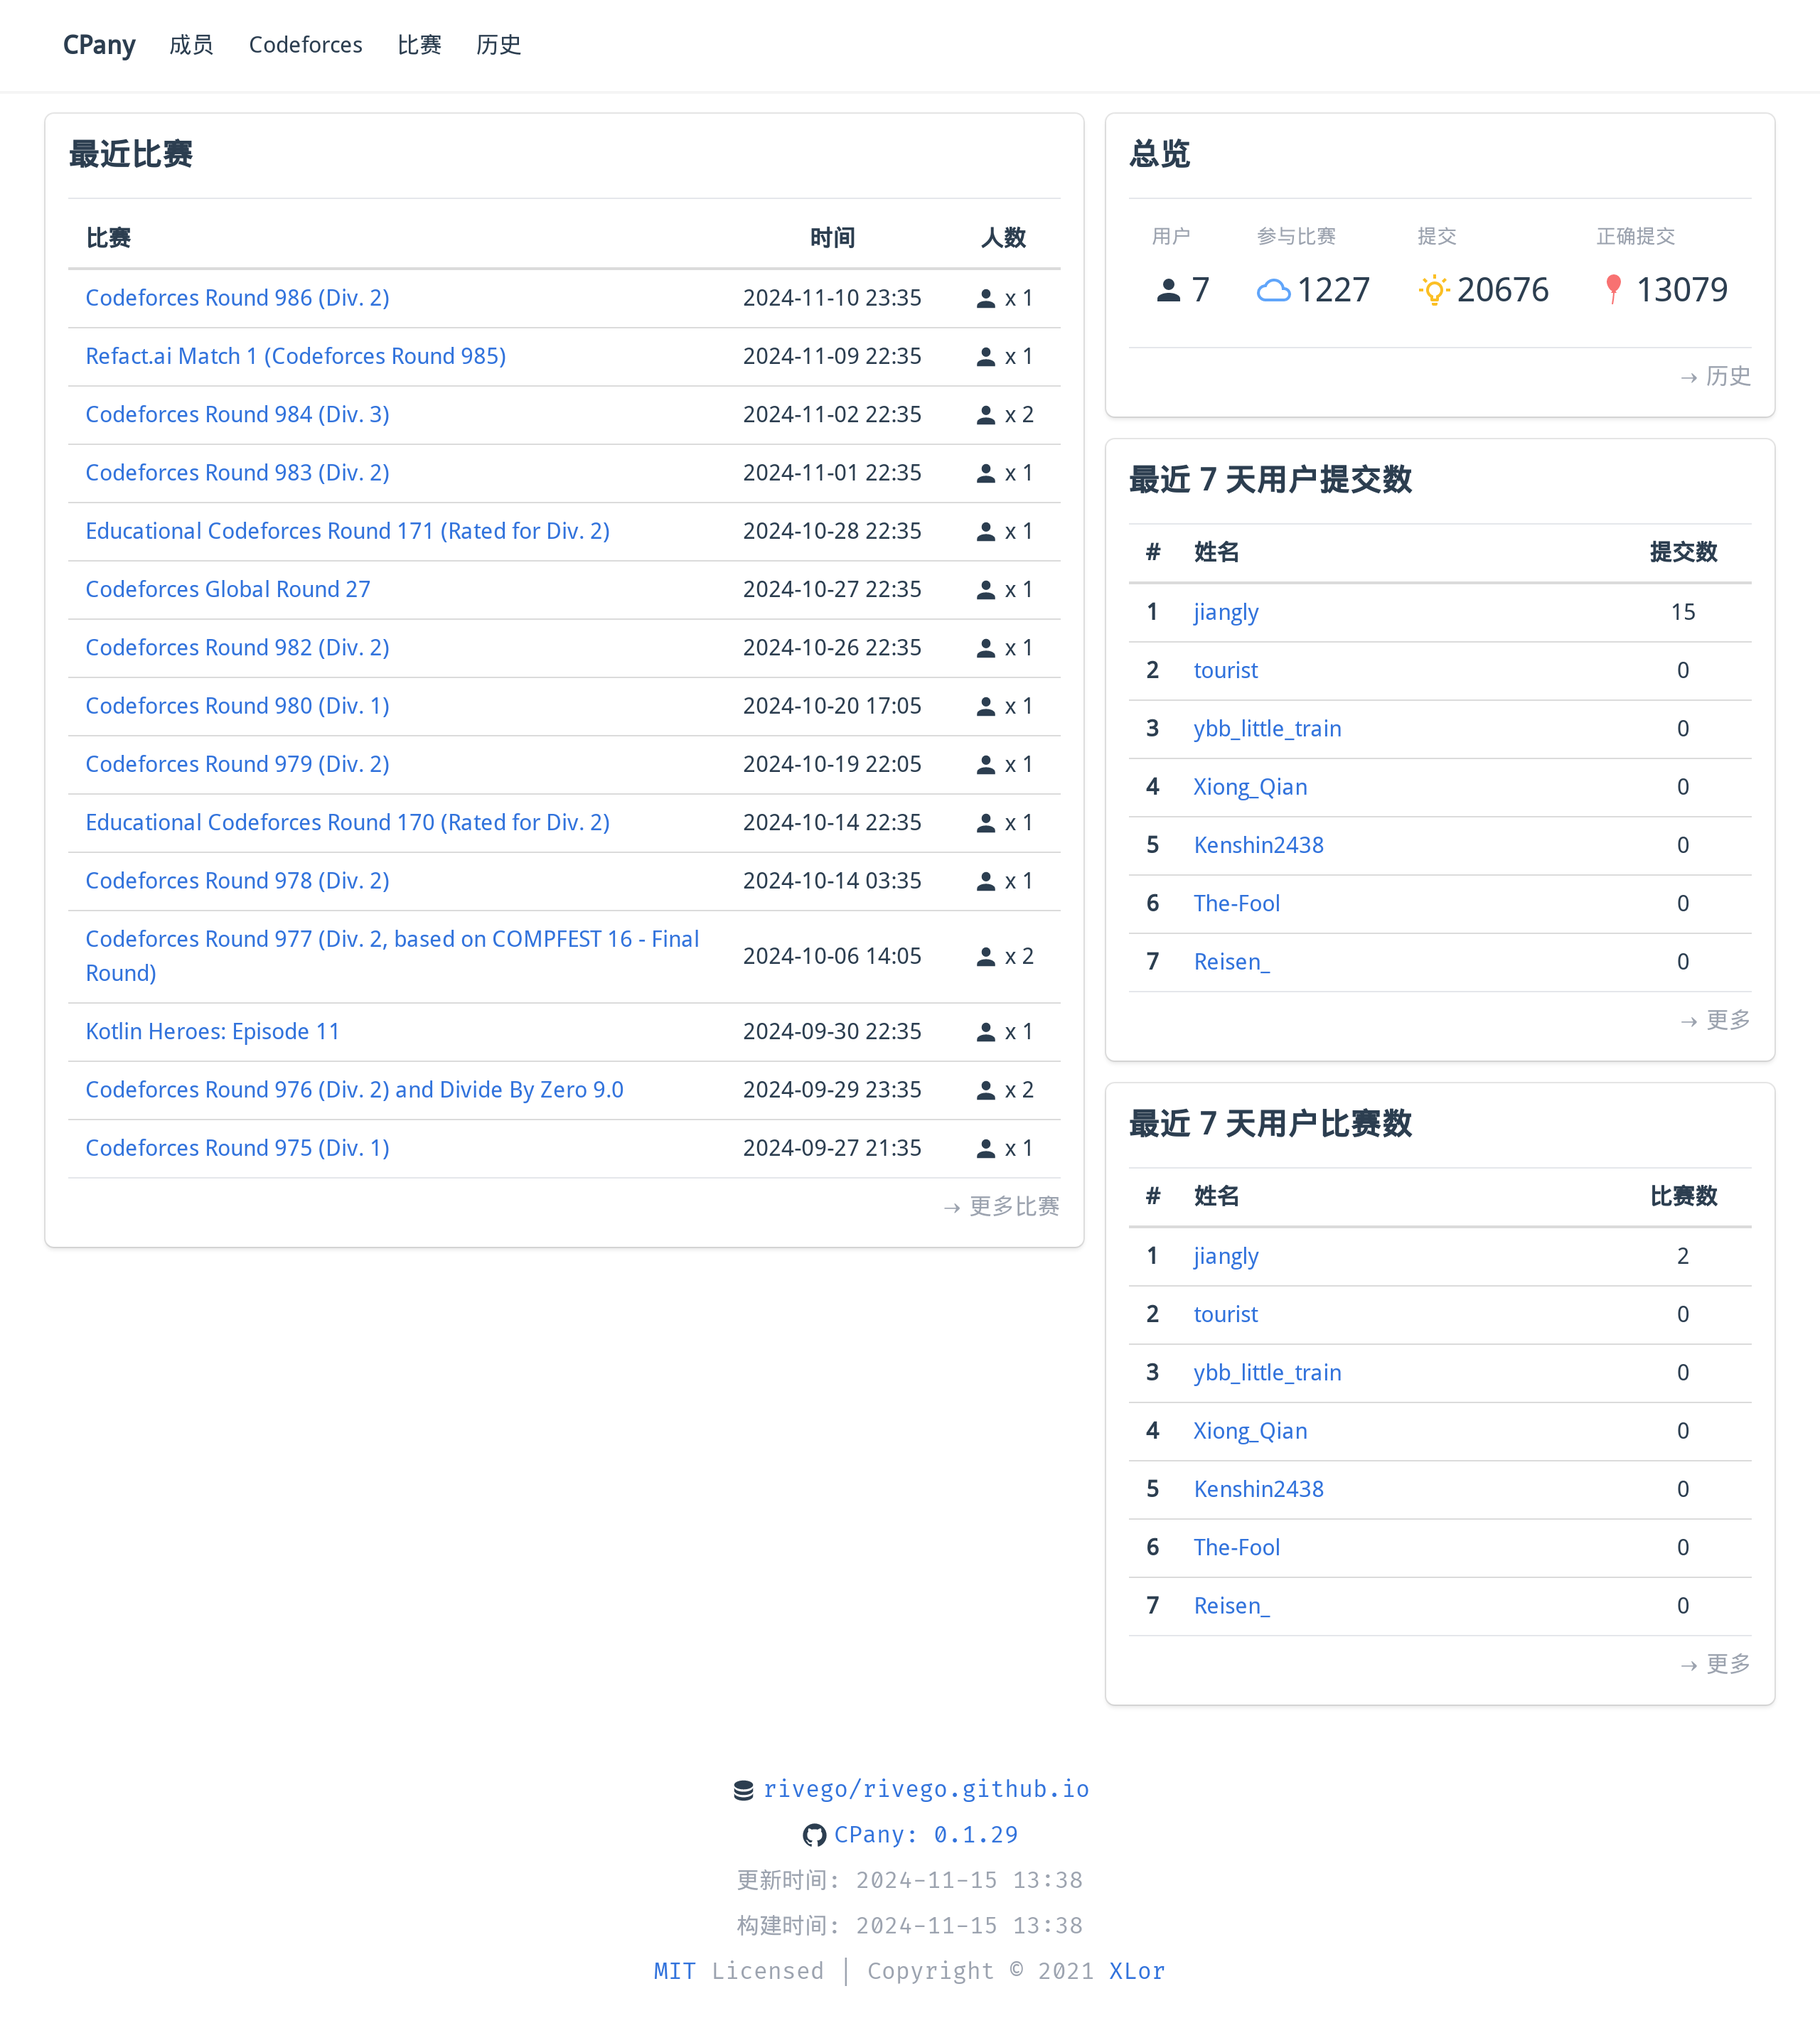
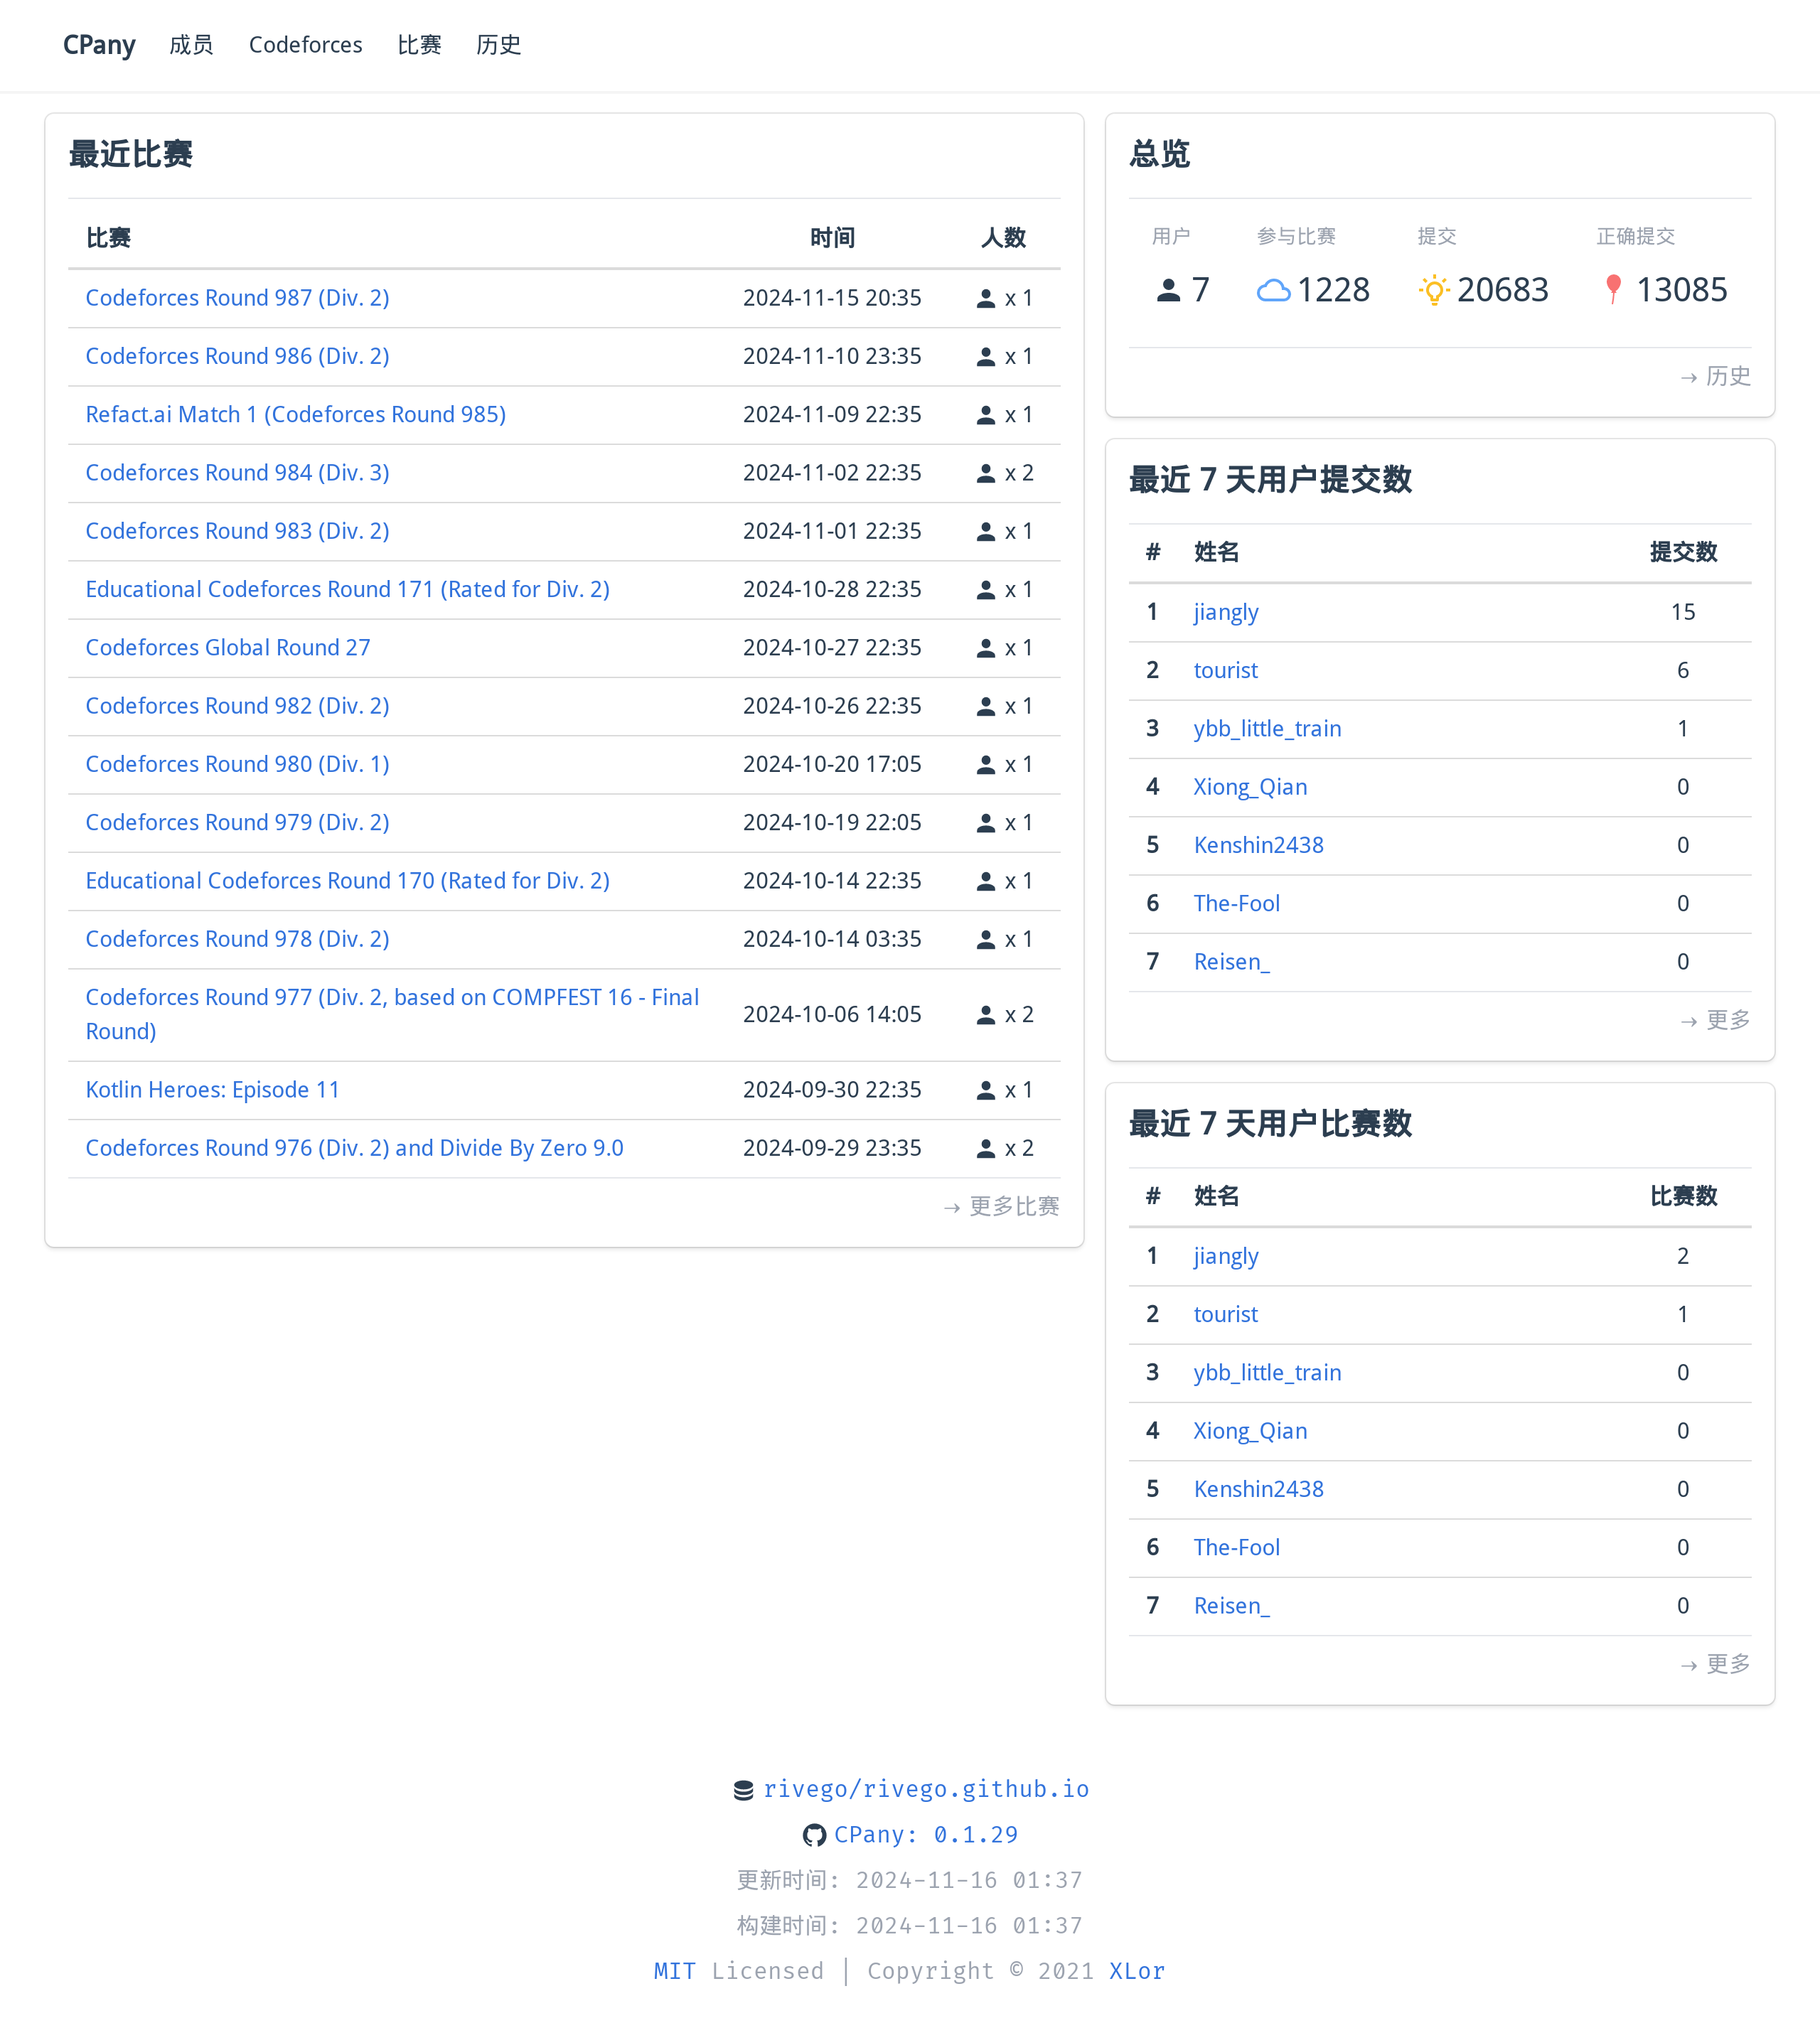
Fetch data on 2024-11-16 01:37

diff --git a/README.md b/README.md
@@ -3,7 +3,7 @@
 [![version](https://img.shields.io/npm/v/@cpany/cli?color=rgb%2850%2C203%2C86%29&label=CPany)](https://www.npmjs.com/package/@cpany/cli)
 
 <!-- START_SECTION: update_time -->
-更新时间：[2024-11-15 13:38](https://www.timeanddate.com/worldclock/fixedtime.html?msg=Fetch+data&iso=202411151731649116000133836&p1=237)
+更新时间：[2024-11-16 01:37](https://www.timeanddate.com/worldclock/fixedtime.html?msg=Fetch+data&iso=202411161731692245000013725&p1=237)
 <!-- END_SECTION: update_time -->
 
 ![members](./screenshot.png)
